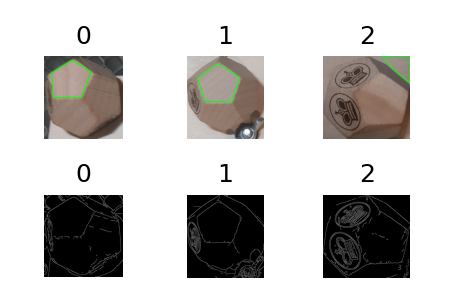
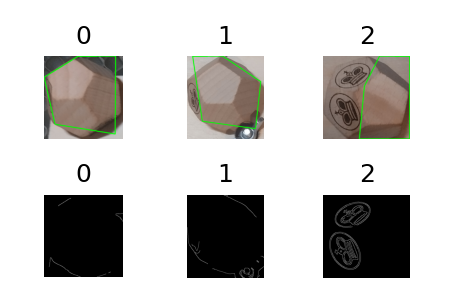
v1.8.31

diff --git a/docs/x/xmap/xlab/xgraver/xgraver-mark/mark/contour.py b/docs/x/xmap/xlab/xgraver/xgraver-mark/mark/contour.py
@@ -70,13 +70,14 @@ def main(mark_input):
     for mark in mark_input:
         edges, original = detector.extract_canny_edges(
             mark["input_image"],  # ваше изображение
-            low_threshold=9,  # ниже = больше деталей
-            high_threshold=27  # выше = только сильные края
+            low_threshold=5,  # ниже = больше деталей
+            high_threshold=30  # выше = только сильные края
         )
         img_cv = np.array(mark["input_image"])
         gray_cv = cv2.cvtColor(img_cv, cv2.COLOR_BGR2GRAY)
-        blurred = cv2.GaussianBlur(gray_cv, (9, 9), 0)
-        edges_cv = cv2.Canny(blurred, 9, 27)
+        # blurred = cv2.GaussianBlur(gray_cv, (7, 7), 0)
+        blurred = cv2.bilateralFilter(gray_cv, 9, 75, 75)
+        edges_cv = cv2.Canny(blurred, 5, 30)
         images.append({
             "result": find_finder(mark, original, edges_cv),
             "edges": edges_cv